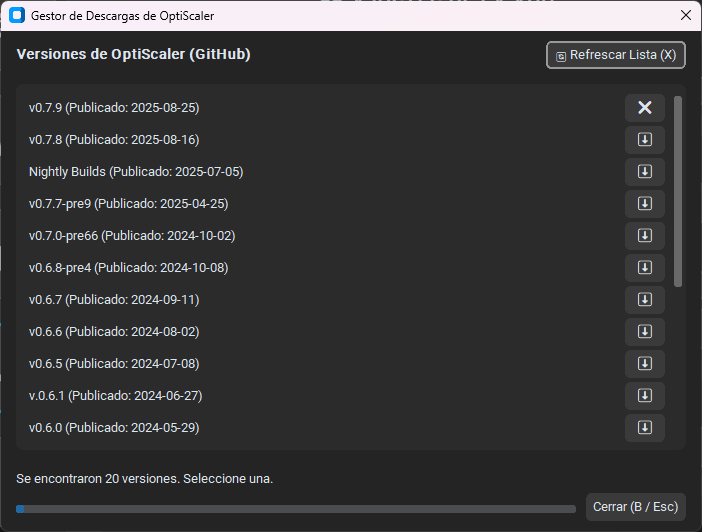
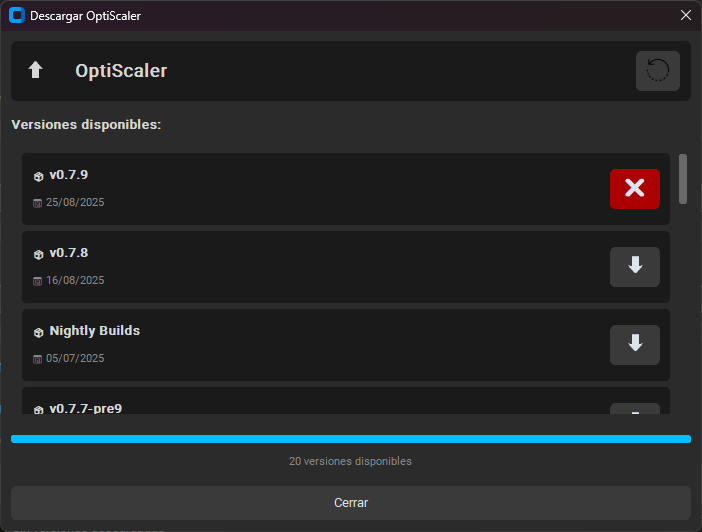
docs: Actualizar README con nuevas capturas y notas de release v2.1.0

diff --git a/README.md b/README.md
@@ -14,41 +14,45 @@
 
 ## 📸 Capturas de Pantalla
 
-### Interfaz Principal (Modo Clásico)
+### Interfaz Principal
 <div align="center">
   <img src=".github/images/main-interface.png" alt="Interfaz Principal" width="800"/>
-  <p><em>Vista principal con lista de juegos detectados y configuración de mods</em></p>
+  <p><em>Vista principal con lista de juegos detectados, navegación drag-to-scroll y controles centralizados</em></p>
 </div>
 
-### Modo Gaming (Navegación por Mando)
+### Panel de Ayuda (Controles)
 <div align="center">
-  <img src=".github/images/gaming-mode.png" alt="Modo Gaming" width="800"/>
-  <p><em>Interfaz optimizada para navegación con mando Xbox/PlayStation</em></p>
+  <img src=".github/images/help-panel.png" alt="Panel de Ayuda" width="800"/>
+  <p><em>Panel desplegable con todos los controles de gamepad y atajos de teclado</em></p>
 </div>
 
 ### Descarga de Mods
 <div align="center">
   <img src=".github/images/mod-downloader.png" alt="Descarga de Mods" width="600"/>
-  <p><em>Gestor de versiones de OptiScaler con descarga desde GitHub</em></p>
+  <p><em>Gestor de versiones de OptiScaler con descarga automática desde GitHub</em></p>
 </div>
 
 ### Configuración de Juego
 <div align="center">
   <img src=".github/images/game-config.png" alt="Configuración de Juego" width="600"/>
-  <p><em>Configuración individual por juego con presets disponibles</em></p>
+  <p><em>Configuración individual por juego con presets y opciones avanzadas</em></p>
+</div>
+
+### Configuración General
+<div align="center">
+  <img src=".github/images/settings.png" alt="Configuración" width="800"/>
+  <p><em>Ajustes de la aplicación, carpetas personalizadas y opciones avanzadas</em></p>
 </div>
 
 ---
 
 ## ✨ Características
 
-### 🎨 Interfaz Dual
-- **Interfaz Clásica**: Vista tradicional de pestañas para configuración detallada
-- **Interfaz Gaming**: Diseño optimizado para navegación con mando (En proceso)(Xbox/PlayStation)
-  - Navegación completa con D-Pad y botones
-  - Indicadores visuales de foco (bordes de colores)
-  - Panel lateral de navegación
-  - Soporte táctil en dispositivos compatibles
+### 🎨 Interfaz Moderna
+- **Iconos centralizados**: Diseño consistente con iconos PNG personalizados
+- **Drag-to-scroll**: Navegación fluida en listas largas de juegos
+- **Panel de ayuda integrado**: Muestra todos los controles disponibles (teclado/gamepad)
+- **Interfaz Gaming** (En desarrollo): Navegación optimizada para mandos Xbox/PlayStation
 
 ### 🎯 Gestión de Mods
 - **Detección automática** de juegos en Steam, Epic Games, Xbox Game Pass, GOG
@@ -137,23 +141,6 @@ python -m src.main
 2. Selecciona la versión de OptiScaler deseada
 3. Pulsa **Descargar y Seleccionar**
 4. La versión descargada se aplicará a futuros mods
-
-### Navegación con Mando
-
-#### Menú Lateral
-- **↑↓**: Cambiar entre secciones
-- **→**: Entrar al panel activo
-
-#### Panel de Configuración
-- **↑↓**: Navegar entre opciones
-- **←→**: Cambiar valores (Presets, GPU, Sharpness)
-- **A/Enter**: Activar desplegables y botones
-- **B/Esc**: Cancelar o volver al menú
-
-#### Panel de Juegos
-- **↑↓**: Navegar entre juegos
-- **A**: Seleccionar/deseleccionar juego
-- **Botón verde 🎮**: Cambiar a interfaz clásica
 
 ---
 

diff --git a/RELEASE_NOTES_v2.1.0.md b/RELEASE_NOTES_v2.1.0.md
@@ -1,0 +1,79 @@
+# OptiScaler Manager v2.1.0 🎮
+
+## 🚀 Mejoras Principales
+
+### Compilación Nativa con Nuitka
+- **Ejecutable optimizado** compilado con Nuitka para máxima compatibilidad y rendimiento
+- **Tamaño reducido**: ~20 MB onefile (vs ~40 MB con PyInstaller)
+- **Inicio más rápido** y menor uso de recursos
+- **Sin falsos positivos** de antivirus comunes
+
+### Elevación de Privilegios Automática
+- **UAC prompt integrado** - el ejecutable solicita permisos de administrador automáticamente
+- **Fallback inteligente** - si no se compila con UAC, la aplicación se auto-eleva en tiempo de ejecución
+- **Sin necesidad de "Run as Administrator"** manualmente
+
+### Gestión de Rutas Mejorada
+- **Configuración persistente** - las carpetas de configuración se crean junto al ejecutable, no en carpetas temporales
+- **Logs centralizados** en `src/config/paths.py`
+- **Compatible con compilados** - funciona correctamente tanto en Python como en .exe
+
+---
+
+## 📦 Instalación
+
+1. Descarga **`Gestor Optiscaler V2.0 ADMIN.exe`**
+2. (Opcional) Verifica la integridad con el checksum SHA256
+3. Ejecuta el .exe - se solicitarán permisos de administrador automáticamente
+4. ¡Listo! La aplicación creará las carpetas necesarias en su primera ejecución
+
+---
+
+## ⚠ Notas Importantes
+
+- **Requiere permisos de administrador** para instalar mods en carpetas de juegos protegidas
+- **Compatible con Windows 10/11** (x64)
+- **Primera ejecución**: puede tardar unos segundos mientras se inicializa
+
+---
+
+## 🔧 Cambios Técnicos
+
+### Añadido
+- Build nativo con Nuitka (onefile) con `--windows-uac-admin`
+- Fallback de auto-elevación en código (relanza si no hay admin)
+- Detección de entorno Nuitka usando `NUITKA_ONEFILE_DIRECTORY`
+
+### Cambiado
+- Centralización de rutas y logs usando `src/config/paths.py`
+- README actualizado con instrucciones de compilación vía Nuitka
+- Workflow de GitHub Actions migrado a Nuitka
+
+### Corregido
+- Error de rutas en compilados (configuración se creaba en `%TEMP%`)
+- Error de logging en compilado (uso incorrecto de `self.log_dir`)
+- Crash silencioso en .exe compilado con PyInstaller
+
+---
+
+## 📋 Changelog Completo
+
+Ver [CHANGELOG.md](https://github.com/Bigflood92/OptiScaler-Manager/blob/main/CHANGELOG.md) para la lista completa de cambios.
+
+---
+
+## 🐛 Problemas Conocidos
+
+- Navegación por gamepad puede tener issues menores (se corregirá en v2.2.0)
+- Algunos antivirus pueden requerir excepción para ejecutables compilados con Nuitka
+
+---
+
+## 💬 Soporte
+
+¿Problemas? Abre un [issue en GitHub](https://github.com/Bigflood92/OptiScaler-Manager/issues)
+
+---
+
+**Checksums:**
+- SHA256: Ver archivo `.sha256` adjunto
